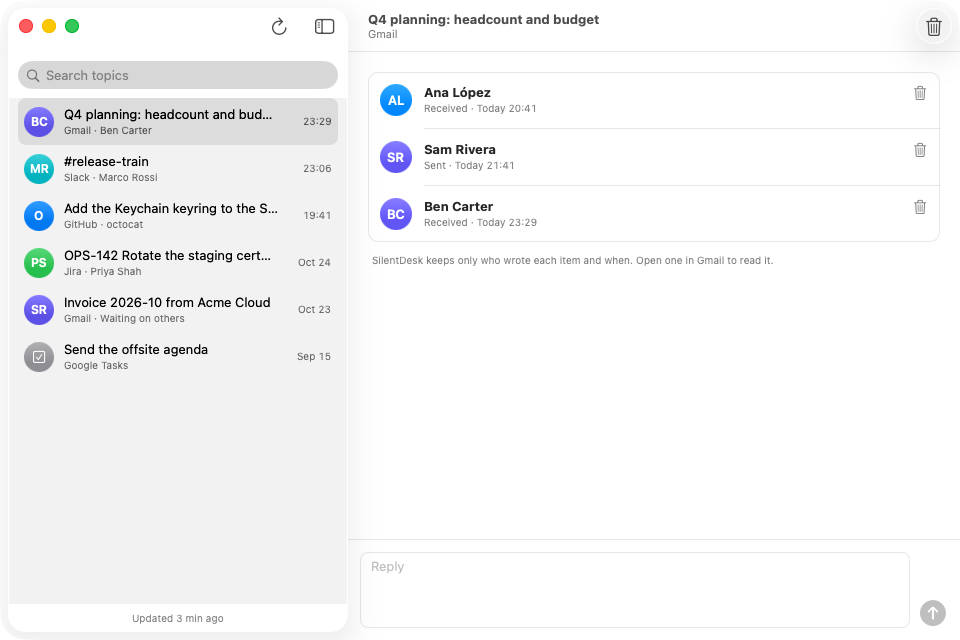
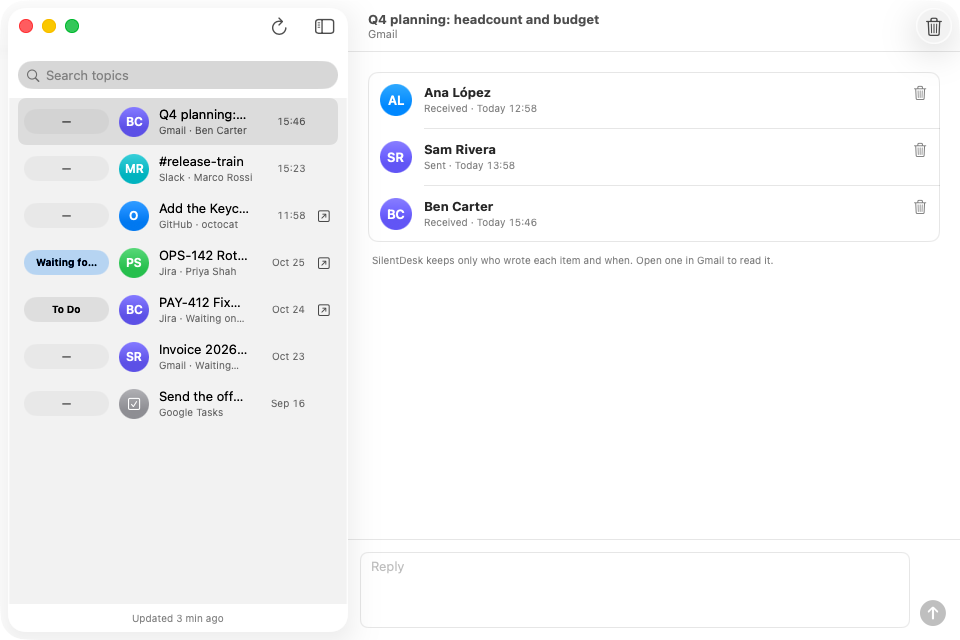
Say that the work focuses on GitHub, and show the chips in the README
A Status section, before Run the apps, says that SilentDesk is under
development, with GitHub's pull requests and their status first. The
screenshot shows the queue as it is now, with the status chips and the
links to each topic's service.

diff --git a/README.md b/README.md
@@ -33,6 +33,10 @@ It was built for you, and its top mission is to protect your focus time by letti
 - **Your data stays with you.** SilentDesk talks directly to Gmail, Slack, GitHub, Jira and Google Tasks from your computer. No middleman server, no telemetry.
 - **Built for work.** Your data and credentials never go anywhere but your company's own services. The code is fully auditable, and every release ships as a signed binary.
 
+## Status
+
+SilentDesk is under development. The current focus is GitHub: its pull requests and their status. Work on the other connectors comes later.
+
 ## Run the apps
 
 On a Mac:
